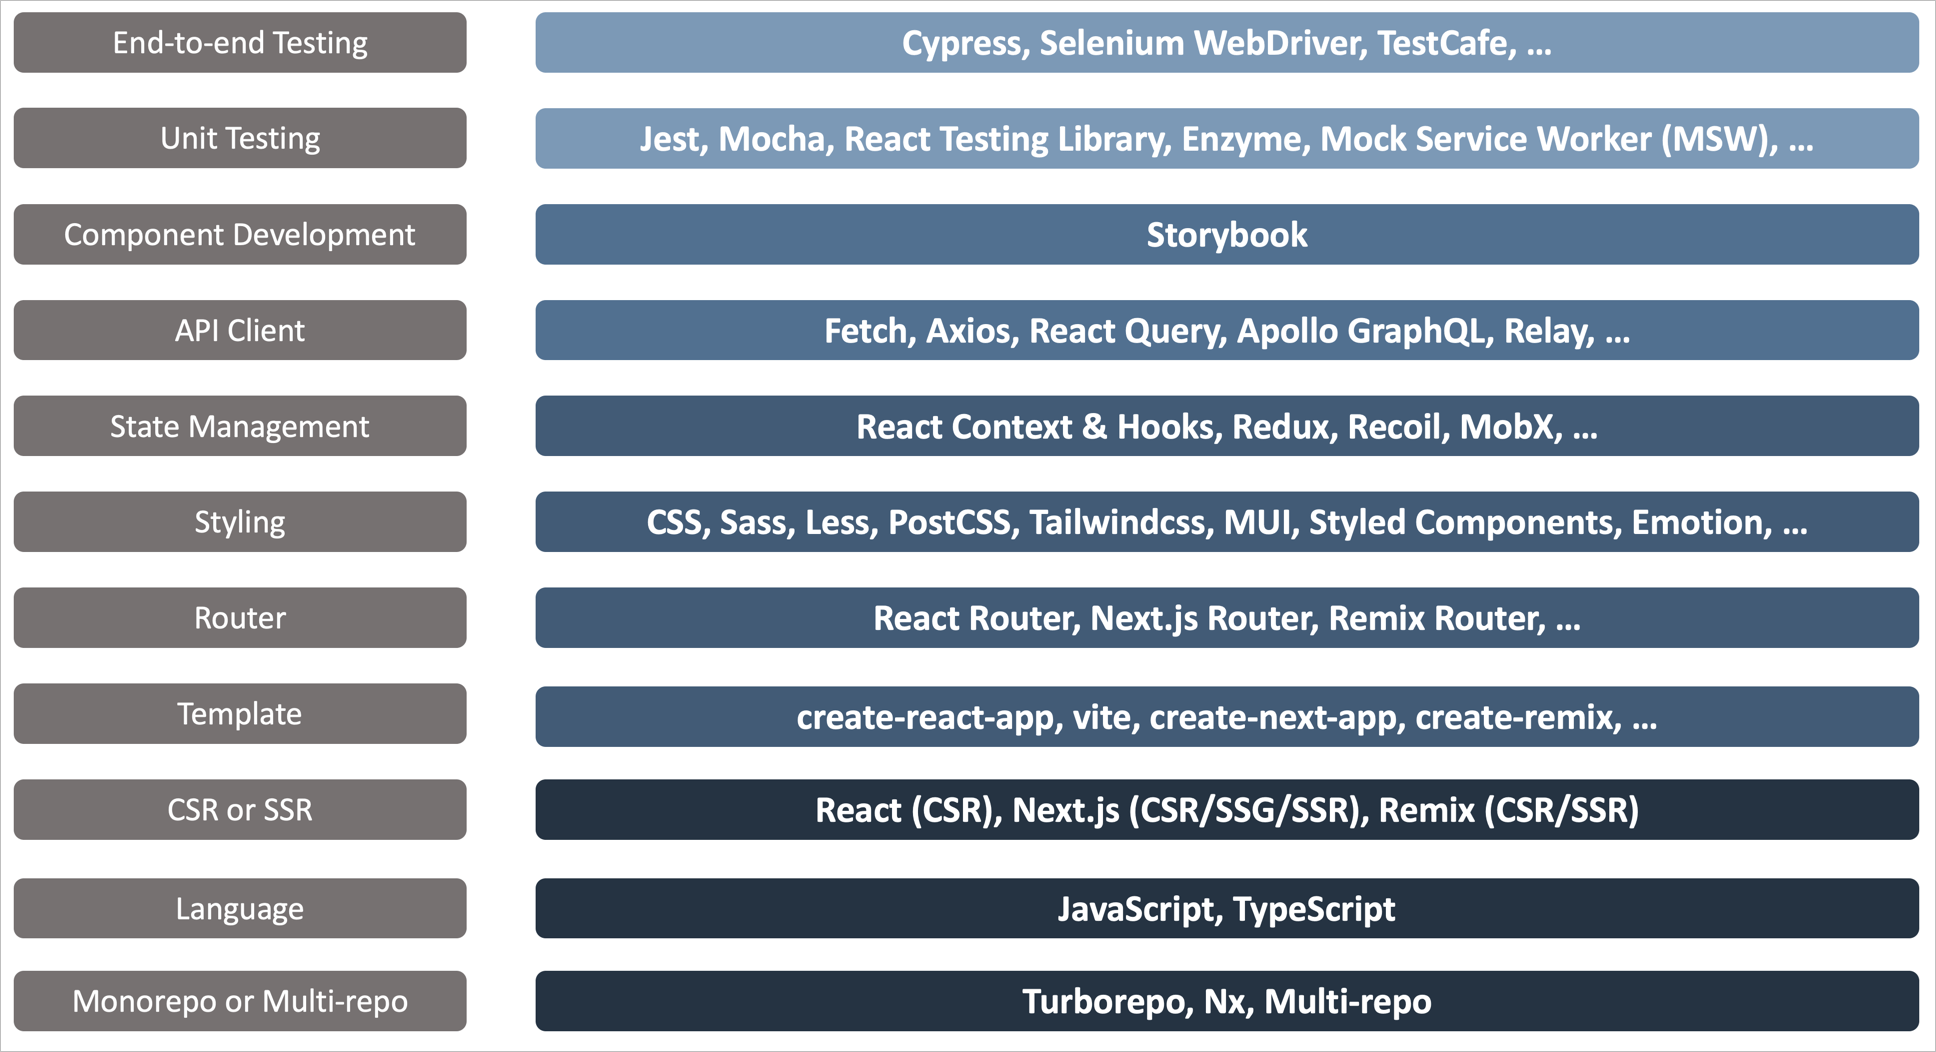
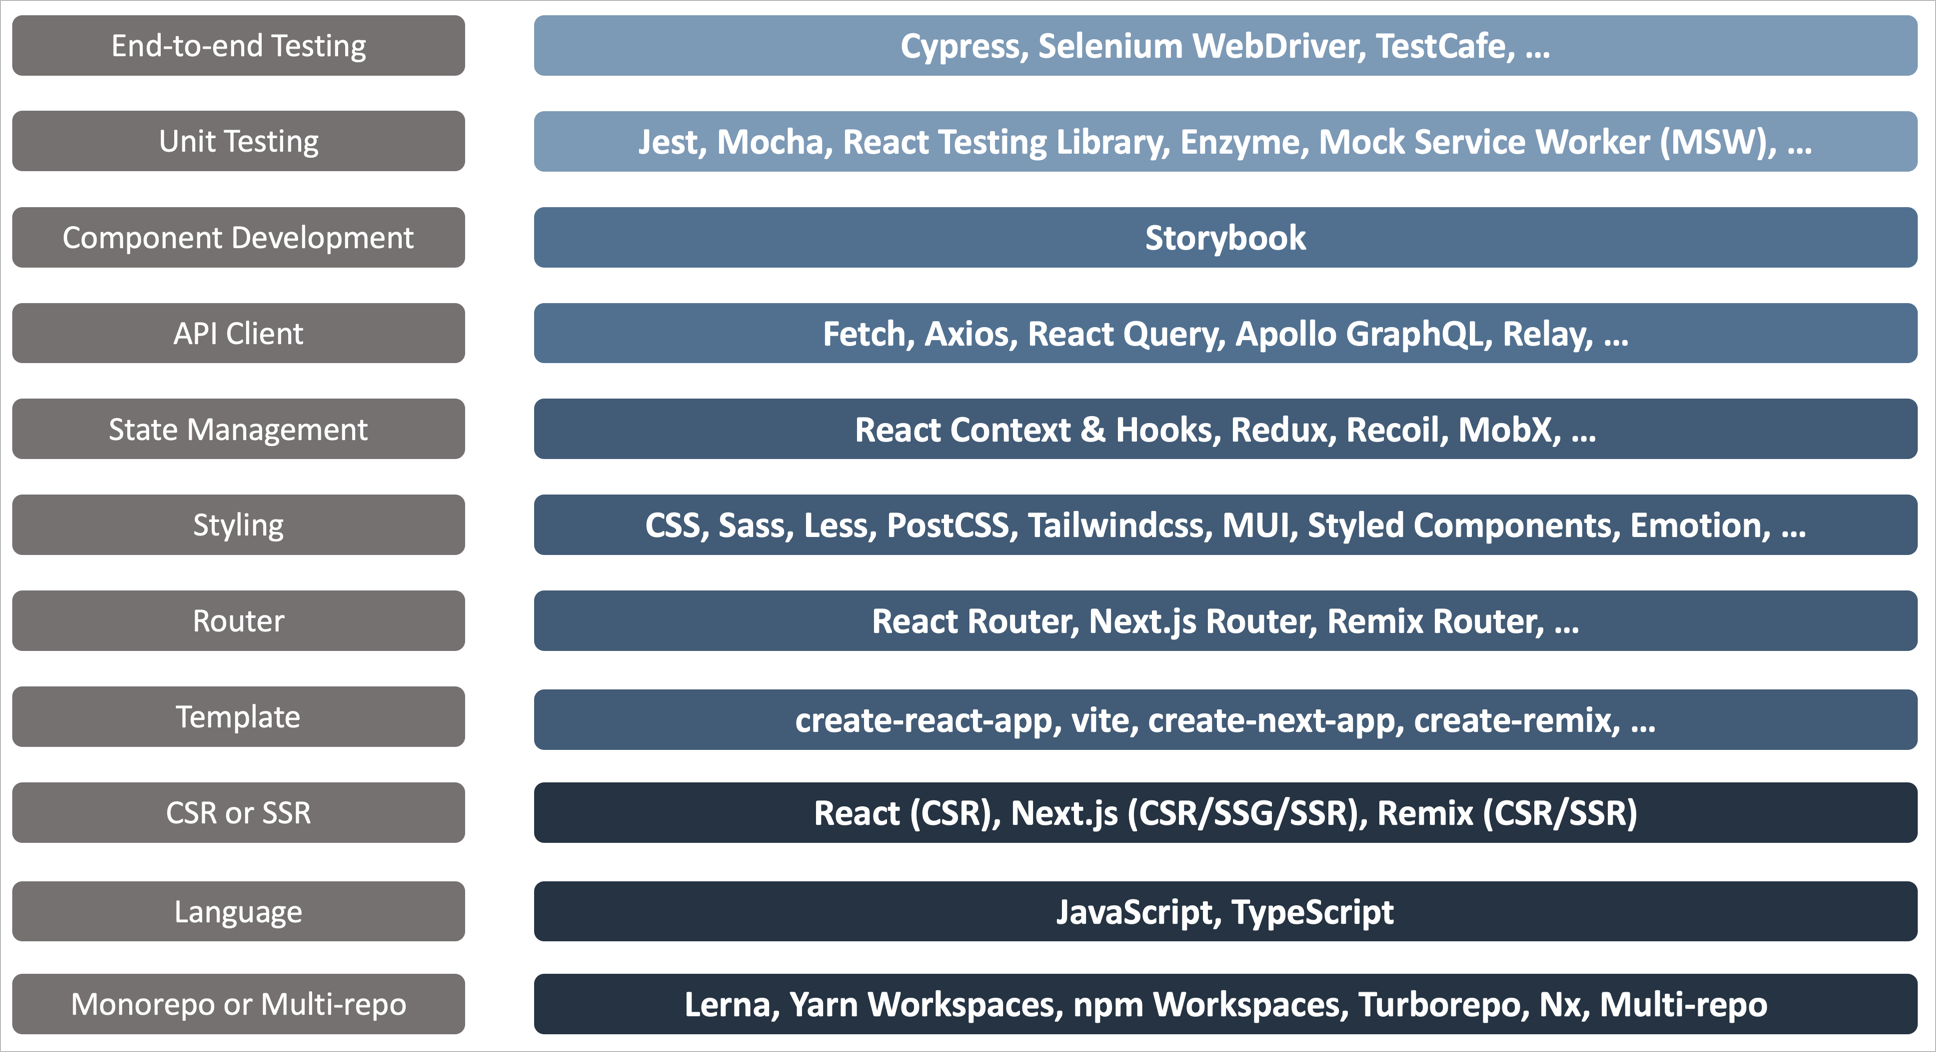
Added JavaScript vs. TypeScript discussion

diff --git a/README.md b/README.md
@@ -73,8 +73,8 @@ Here are some issues with the multi-repo approach:
 
 A solution that works better in such use cases is a monorepo.
 
-> Monorepo is a single repository containing multiple distinct projects, with
-> well-defined relationships.
+> Monorepo is a single repository containing **multiple distinct projects**,
+> with **well-defined relationships**.
 
 Here's an example of taking the multiple repos in the above diagram and
 replacing them with a single repo:
@@ -92,8 +92,8 @@ Here are the advantages of a monorepo:
 
 You can build a monorepo all by yourself by putting all your projects into one
 repo and figuring out a way to organize and build them. However, people
-generally use an off-the-shelf monorepo platform such as Lerna, npm workspaces,
-yarn workspaces, Turborepo or Nx. Both Turborepo and Nx provide some very
+generally use an off-the-shelf monorepo platform such as Lerna, Yarn Workspaces,
+npm Workspaces, Turborepo or Nx. Both Turborepo and Nx provide some very
 advanced features, but Turborepo is my favorite because it is less opinionated
 and allows me to integrate existing templates more easily into my monorepo.
 Also, each project has its own `package.json` file, making it easy for me to
@@ -104,7 +104,14 @@ root. This helps maintain a _single version policy_, however it has its own pros
 
 ## Language
 
-WIP
+JavaScript is one of the most popular programming languages in the world. It has
+a huge community behind it and plenty of learning resources. For simple
+applications, it works really well. However, as the complexity increases it is
+easier to introduce bugs due to its weak type checking. If your application
+deals with complex data structures, it is better to switch over to TypeScript
+because of its static type checking. The TypeScript compiler will catch many
+mistakes that will simply slip by JavaScript. TypeScript is also great for
+defining conceptual models that are shared between backend and frontend teams.
 
 ## CSR vs. SSR
 
